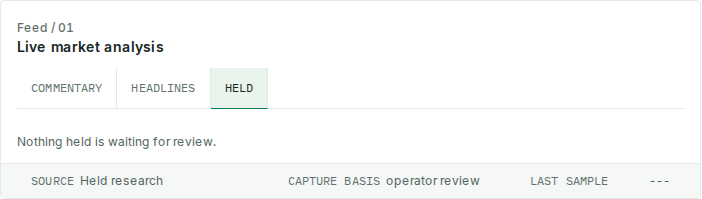
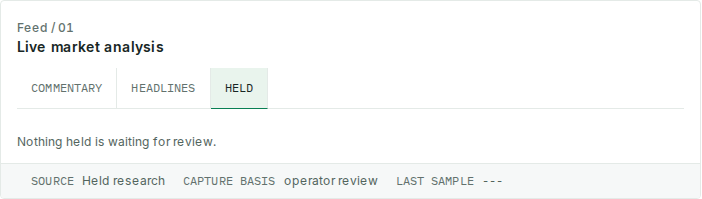
fix(ui): even Live market analysis Held rail chips (#613)
* fix(ui): even Live market analysis Held rail chips

PR #573's 3-column grid plus 16ch basis min-width and a missing nowrap on
labels split CAPTURE BASIS and overlapped SOURCE at ~1024. Match sibling
panel-meta-rails: flex + gap chips, nowrap keys, source as the only shrink
absorber, stacked mobile rows without space-between.

docs-skip: CSS-only feed-rail layout; existing live-market-footer plan still applies

* fix(ui): pack Held rail chips without source grow

flex: 1 on SOURCE stretched leftover space into a wide hole after the
value. Shrink-only (flex: 0 1 auto) keeps even 18px chip gaps; source
still ellipsizes when the row is tight. Restamp the held-out e2e ledger.

docs-skip: CSS-only feed-rail follow-up; ledger stamp is the owner contract

---------

Changed region(s): [[0.0897, 0.8744, 0.7179, 0.9347], [0.7479, 0.8744, 0.8675, 0.9347], [0.9274, 0.9045, 0.9573, 0.9347]]

diff --git a/web/e2e/dashboard-feed-tabs.spec.ts b/web/e2e/dashboard-feed-tabs.spec.ts
@@ -114,6 +114,18 @@ test.describe("dashboard feed tabs", () => {
       const sourceX = await textStartX(rail.locator('[data-k="source"] .k'));
       const commentaryX = await textStartX(page.getByTestId("feed-tab-commentary"));
       expect(Math.abs(sourceX - commentaryX)).toBeLessThanOrEqual(1);
+
+      const basisLabel = rail.locator('[data-k="capture.basis"] .k');
+      await expect(basisLabel).toHaveCSS("white-space", "nowrap");
+      expect(await basisLabel.evaluate((el) => el.scrollWidth - el.clientWidth)).toBeLessThanOrEqual(1);
+      expect(itemBoxes[0].x + itemBoxes[0].width).toBeLessThanOrEqual(itemBoxes[1].x + 1);
+      expect(itemBoxes[1].x + itemBoxes[1].width).toBeLessThanOrEqual(itemBoxes[2].x + 1);
+      const gap1 = itemBoxes[1].x - (itemBoxes[0].x + itemBoxes[0].width);
+      const gap2 = itemBoxes[2].x - (itemBoxes[1].x + itemBoxes[1].width);
+      expect(gap1).toBeGreaterThan(0);
+      expect(Math.abs(gap1 - gap2)).toBeLessThanOrEqual(2);
+      const sourceValueBox = (await sourceValue.boundingBox())!;
+      expect(itemBoxes[1].x - (sourceValueBox.x + sourceValueBox.width)).toBeLessThanOrEqual(24);
     }
   });
 
@@ -140,22 +152,46 @@ test.describe("dashboard feed tabs", () => {
     expect(Math.abs(itemBoxes[0].y - itemBoxes[2].y)).toBeLessThanOrEqual(1);
   });
 
-  test("Held --- does not shift the basis item, and mobile stacks without overflow", async ({ page }) => {
+  test("Held empty rail keeps Capture basis intact and stacks evenly on mobile", async ({ page }) => {
     await fulfillFeed(page, [{ ...commentaryPost(), source: RESEARCH_SOURCE }]);
     await page.setViewportSize({ width: 1440, height: 900 });
     await page.goto("/dashboard");
     const rail = page.getByTestId("feed-rail");
     await rail.scrollIntoViewIfNeeded();
-    const basisOffset = async () => {
-      const railBox = (await rail.boundingBox())!;
-      const basisBox = (await rail.locator('[data-k="capture.basis"]').boundingBox())!;
-      return basisBox.x - railBox.x;
-    };
-    const commentaryBasisX = await basisOffset();
     await page.getByTestId("feed-tab-held").click();
     await expect(page.getByText("Nothing held is waiting for review.")).toBeVisible();
     expect(await rail.locator('[data-k="last.sample"] .v').innerText()).toBe("---");
-    expect(Math.abs((await basisOffset()) - commentaryBasisX)).toBeLessThanOrEqual(1);
+
+    const basisLabel = rail.locator('[data-k="capture.basis"] .k');
+    await expect(basisLabel).toHaveText("Capture basis");
+    await expect(basisLabel).toHaveCSS("white-space", "nowrap");
+    expect(await basisLabel.evaluate((el) => el.scrollWidth - el.clientWidth)).toBeLessThanOrEqual(1);
+
+    const itemBoxes = await Promise.all(
+      ["source", "capture.basis", "last.sample"].map(async (key) =>
+        (await rail.locator(`[data-k="${key}"]`).boundingBox())!,
+      ),
+    );
+    expect(Math.abs(itemBoxes[0].y - itemBoxes[1].y)).toBeLessThanOrEqual(1);
+    expect(itemBoxes[0].x + itemBoxes[0].width).toBeLessThanOrEqual(itemBoxes[1].x + 1);
+    expect(itemBoxes[1].x + itemBoxes[1].width).toBeLessThanOrEqual(itemBoxes[2].x + 1);
+    const gap1 = itemBoxes[1].x - (itemBoxes[0].x + itemBoxes[0].width);
+    const gap2 = itemBoxes[2].x - (itemBoxes[1].x + itemBoxes[1].width);
+    expect(Math.abs(gap1 - gap2)).toBeLessThanOrEqual(2);
+    const sourceValueBox = (await rail.locator('[data-k="source"] .v').boundingBox())!;
+    expect(itemBoxes[1].x - (sourceValueBox.x + sourceValueBox.width)).toBeLessThanOrEqual(24);
+
+    await page.setViewportSize({ width: 1024, height: 768 });
+    await rail.scrollIntoViewIfNeeded();
+    const midBoxes = await Promise.all(
+      ["source", "capture.basis", "last.sample"].map(async (key) =>
+        (await rail.locator(`[data-k="${key}"]`).boundingBox())!,
+      ),
+    );
+    expect(Math.abs(midBoxes[0].y - midBoxes[1].y)).toBeLessThanOrEqual(1);
+    expect(midBoxes[0].x + midBoxes[0].width).toBeLessThanOrEqual(midBoxes[1].x + 1);
+    expect(midBoxes[1].x + midBoxes[1].width).toBeLessThanOrEqual(midBoxes[2].x + 1);
+    await expect(basisLabel).toHaveCSS("white-space", "nowrap");
 
     await page.setViewportSize({ width: 393, height: 852 });
     await expect(page.locator("body")).toHaveAttribute("data-mobile", "true");
@@ -170,8 +206,12 @@ test.describe("dashboard feed tabs", () => {
     );
     expect(itemYs[1]).toBeGreaterThan(itemYs[0] + 4);
     expect(itemYs[2]).toBeGreaterThan(itemYs[1] + 4);
+    const keyGaps = [itemYs[1] - itemYs[0], itemYs[2] - itemYs[1]];
+    expect(Math.abs(keyGaps[0] - keyGaps[1])).toBeLessThanOrEqual(2);
     const overflow = await page.locator(".dashboard-news").evaluate((el) => el.scrollWidth - el.clientWidth);
     expect(overflow).toBeLessThanOrEqual(1);
+    await expect(basisLabel).toHaveCSS("white-space", "nowrap");
+    expect(await basisLabel.evaluate((el) => el.scrollWidth - el.clientWidth)).toBeLessThanOrEqual(1);
   });
 
   for (const theme of ["dark", "light"] as const) {

diff --git a/web/app/globals.css b/web/app/globals.css
@@ -4662,11 +4662,11 @@ td.last-price-cell {
 }
 
 .dashboard-news .dashboard-news__rail {
-  display: grid;
-  grid-template-columns: minmax(0, 1fr) max-content max-content;
-  column-gap: 16px;
+  display: flex;
+  flex-wrap: nowrap;
   align-items: baseline;
-  justify-content: stretch;
+  justify-content: flex-start;
+  gap: 18px;
   width: calc(100% + 2 * var(--dn-pad-x));
   margin-top: auto;
   margin-inline: calc(-1 * var(--dn-pad-x));
@@ -4683,16 +4683,20 @@ td.last-price-cell {
 .dashboard-news .dashboard-news__rail .panel-meta-rail-item {
   display: inline-flex;
   align-items: baseline;
-  gap: 6px;
+  gap: 8px;
   min-width: 0;
+  flex: 0 0 auto;
+  white-space: nowrap;
 }
 
 .dashboard-news .dashboard-news__rail .panel-meta-rail-item[data-k="source"] {
+  flex: 0 1 auto;
   min-width: 0;
 }
 
 .dashboard-news .dashboard-news__rail .panel-meta-rail-item .k {
   flex-shrink: 0;
+  white-space: nowrap;
   font-family: var(--font-mono);
   font-size: var(--text-meta);
   letter-spacing: var(--tracking-meta);
@@ -4713,15 +4717,10 @@ td.last-price-cell {
   white-space: nowrap;
 }
 
-.dashboard-news .dashboard-news__rail .panel-meta-rail-item[data-k="capture.basis"] .v {
-  min-width: 16ch;
-}
-
 .dashboard-news .dashboard-news__rail .panel-meta-rail-item[data-k="last.sample"] .v {
   font-family: var(--font-mono);
   font-variant-numeric: tabular-nums;
   min-width: 8ch;
-  text-align: right;
 }
 
 .dashboard-news .dashboard-news__rail .panel-meta-rail-item[data-k="capture.basis"][data-basis="scraper"] .v,
@@ -4735,15 +4734,20 @@ td.last-price-cell {
 }
 
 body[data-mobile="true"] .dashboard-news .dashboard-news__rail {
-  grid-template-columns: 1fr;
-  row-gap: 4px;
+  flex-direction: column;
+  flex-wrap: nowrap;
+  align-items: flex-start;
+  gap: 8px;
   padding: 8px var(--dn-pad-x);
   margin-inline: calc(-1 * var(--dn-pad-x));
 }
 
-body[data-mobile="true"] .dashboard-news .dashboard-news__rail .panel-meta-rail-item {
-  display: flex;
-  justify-content: space-between;
+body[data-mobile="true"] .dashboard-news .dashboard-news__rail .panel-meta-rail-item,
+body[data-mobile="true"] .dashboard-news .dashboard-news__rail .panel-meta-rail-item[data-k="source"] {
+  display: inline-flex;
+  flex: 0 0 auto;
+  width: auto;
+  max-width: 100%;
 }
 
 .news-feed-actions {

diff --git a/web/tests/skill-stack-shell-chrome.test.ts b/web/tests/skill-stack-shell-chrome.test.ts
@@ -89,12 +89,19 @@ describe("skill-stack shell chrome", () => {
 
   it("feed rail polish stays scoped and leaves the shared rail bytes unchanged", () => {
     const css = src("app/globals.css");
-    const feedRail = css.indexOf(".dashboard-news__rail");
+    const feedRail = css.indexOf(".dashboard-news .dashboard-news__rail {");
     expect(feedRail).toBeGreaterThan(0);
-    const chunk = css.slice(feedRail, feedRail + 5000);
-    expect(chunk).toContain("grid-template-columns");
+    const nextBlock = css.indexOf("\n.news-feed-actions {", feedRail);
+    expect(nextBlock).toBeGreaterThan(feedRail);
+    const chunk = css.slice(feedRail, nextBlock);
+    expect(chunk).toContain("display: flex");
+    expect(chunk).toContain("flex: 0 1 auto");
+    expect(chunk).toContain("white-space: nowrap");
     expect(chunk).toContain("tabular-nums");
     expect(chunk).toContain("border-radius: 0 0 3px 3px");
+    expect(chunk).not.toContain("grid-template-columns");
+    expect(chunk).not.toContain("min-width: 16ch");
+    expect(chunk).not.toContain("justify-content: space-between");
 
     const globalStart = css.indexOf("\n.panel-meta-rail {");
     expect(globalStart).toBeGreaterThan(0);

diff --git a/tasks/todo.md b/tasks/todo.md
@@ -14,6 +14,22 @@ Sep 18-style gaps: daemon today-only + 2-day `date_scopes` + cursor advance on z
 - [x] T2 Implementation
 - [ ] T3 Draft PR; hold merge
 
+# Task: Held-tab feed rail footer layout
+
+Joe via CoS: CAPTURE BASIS mid-label gap + SOURCE/CAPTURE overlap at ~1024 after PR #573 grid.
+
+## Dependency graph
+
+- T1 depends_on: [] - Red: CSS contract + e2e geometry (nowrap keys, even gaps, no overlap)
+- T2 depends_on: [T1] - Flex + gap chips; drop 16ch / 3-col grid; mobile stack without space-between
+- T3 depends_on: [T2] - Green focused suites; draft PR; CI; no merge
+
+## Checklist
+
+- [x] T1 Failing rail-layout contract
+- [x] T2 `.dashboard-news__rail` flex chips
+- [ ] T3 Draft PR; CI; hold merge for Joe
+
 # Task: Add company icons and fallback icon for processed PDF documents in the live news feed
 
 ## Dependency graph
